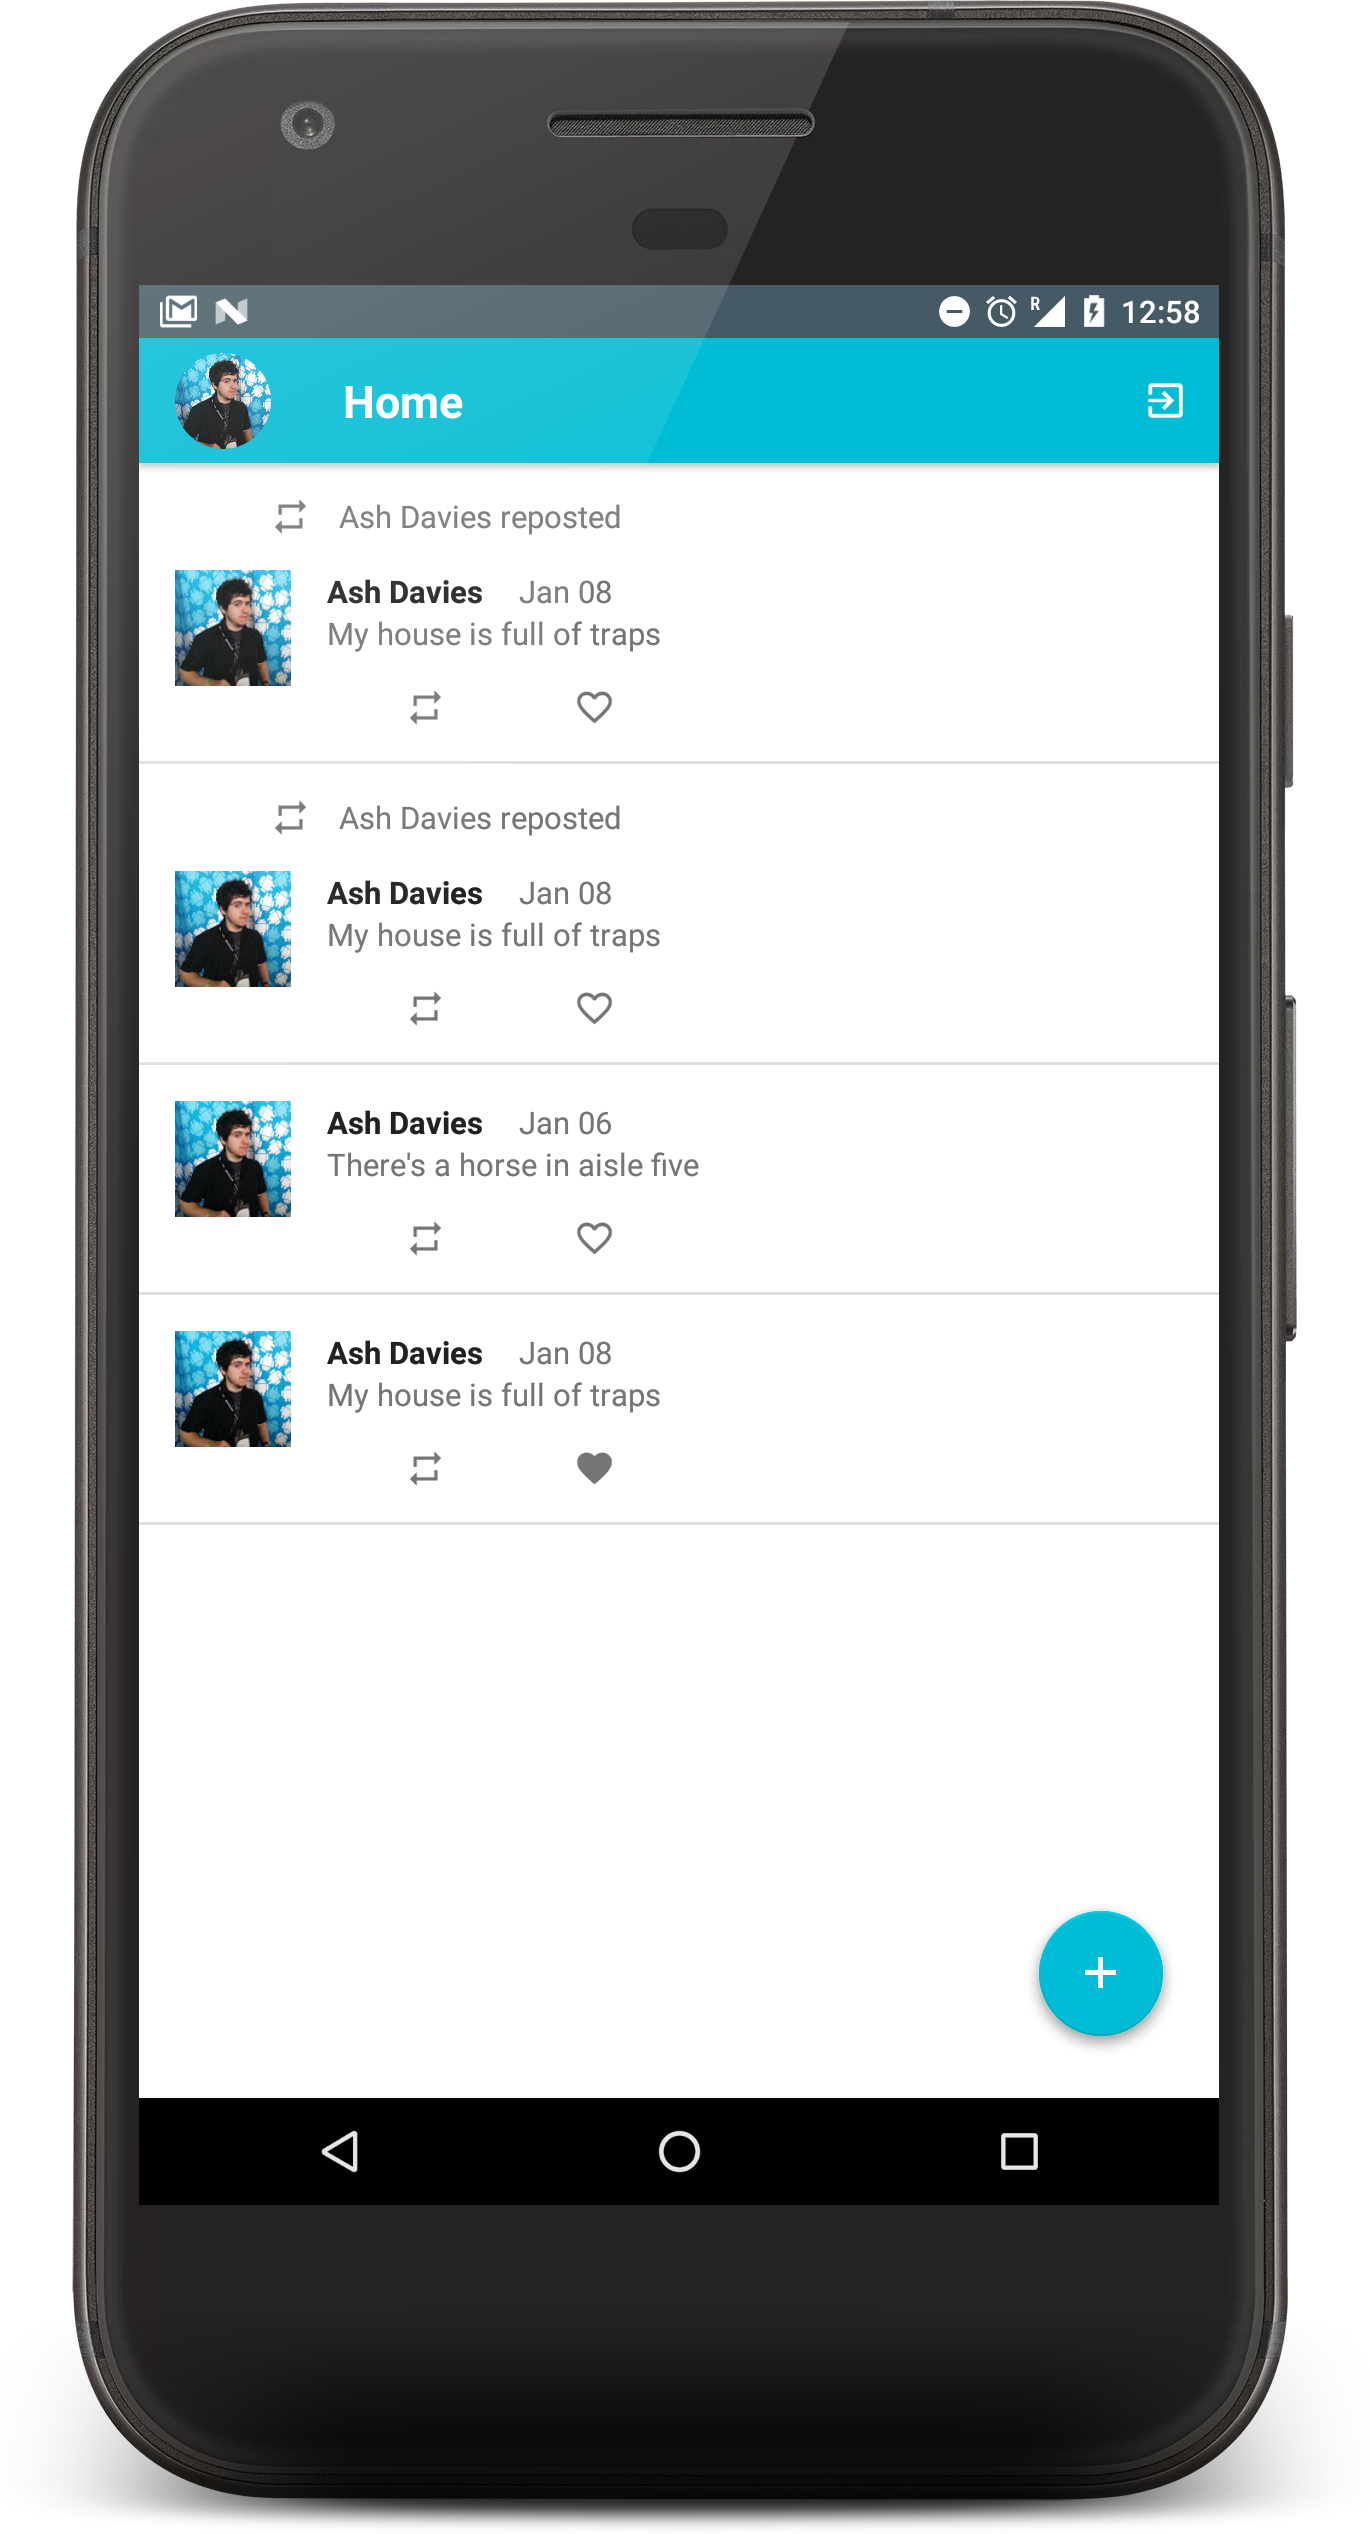
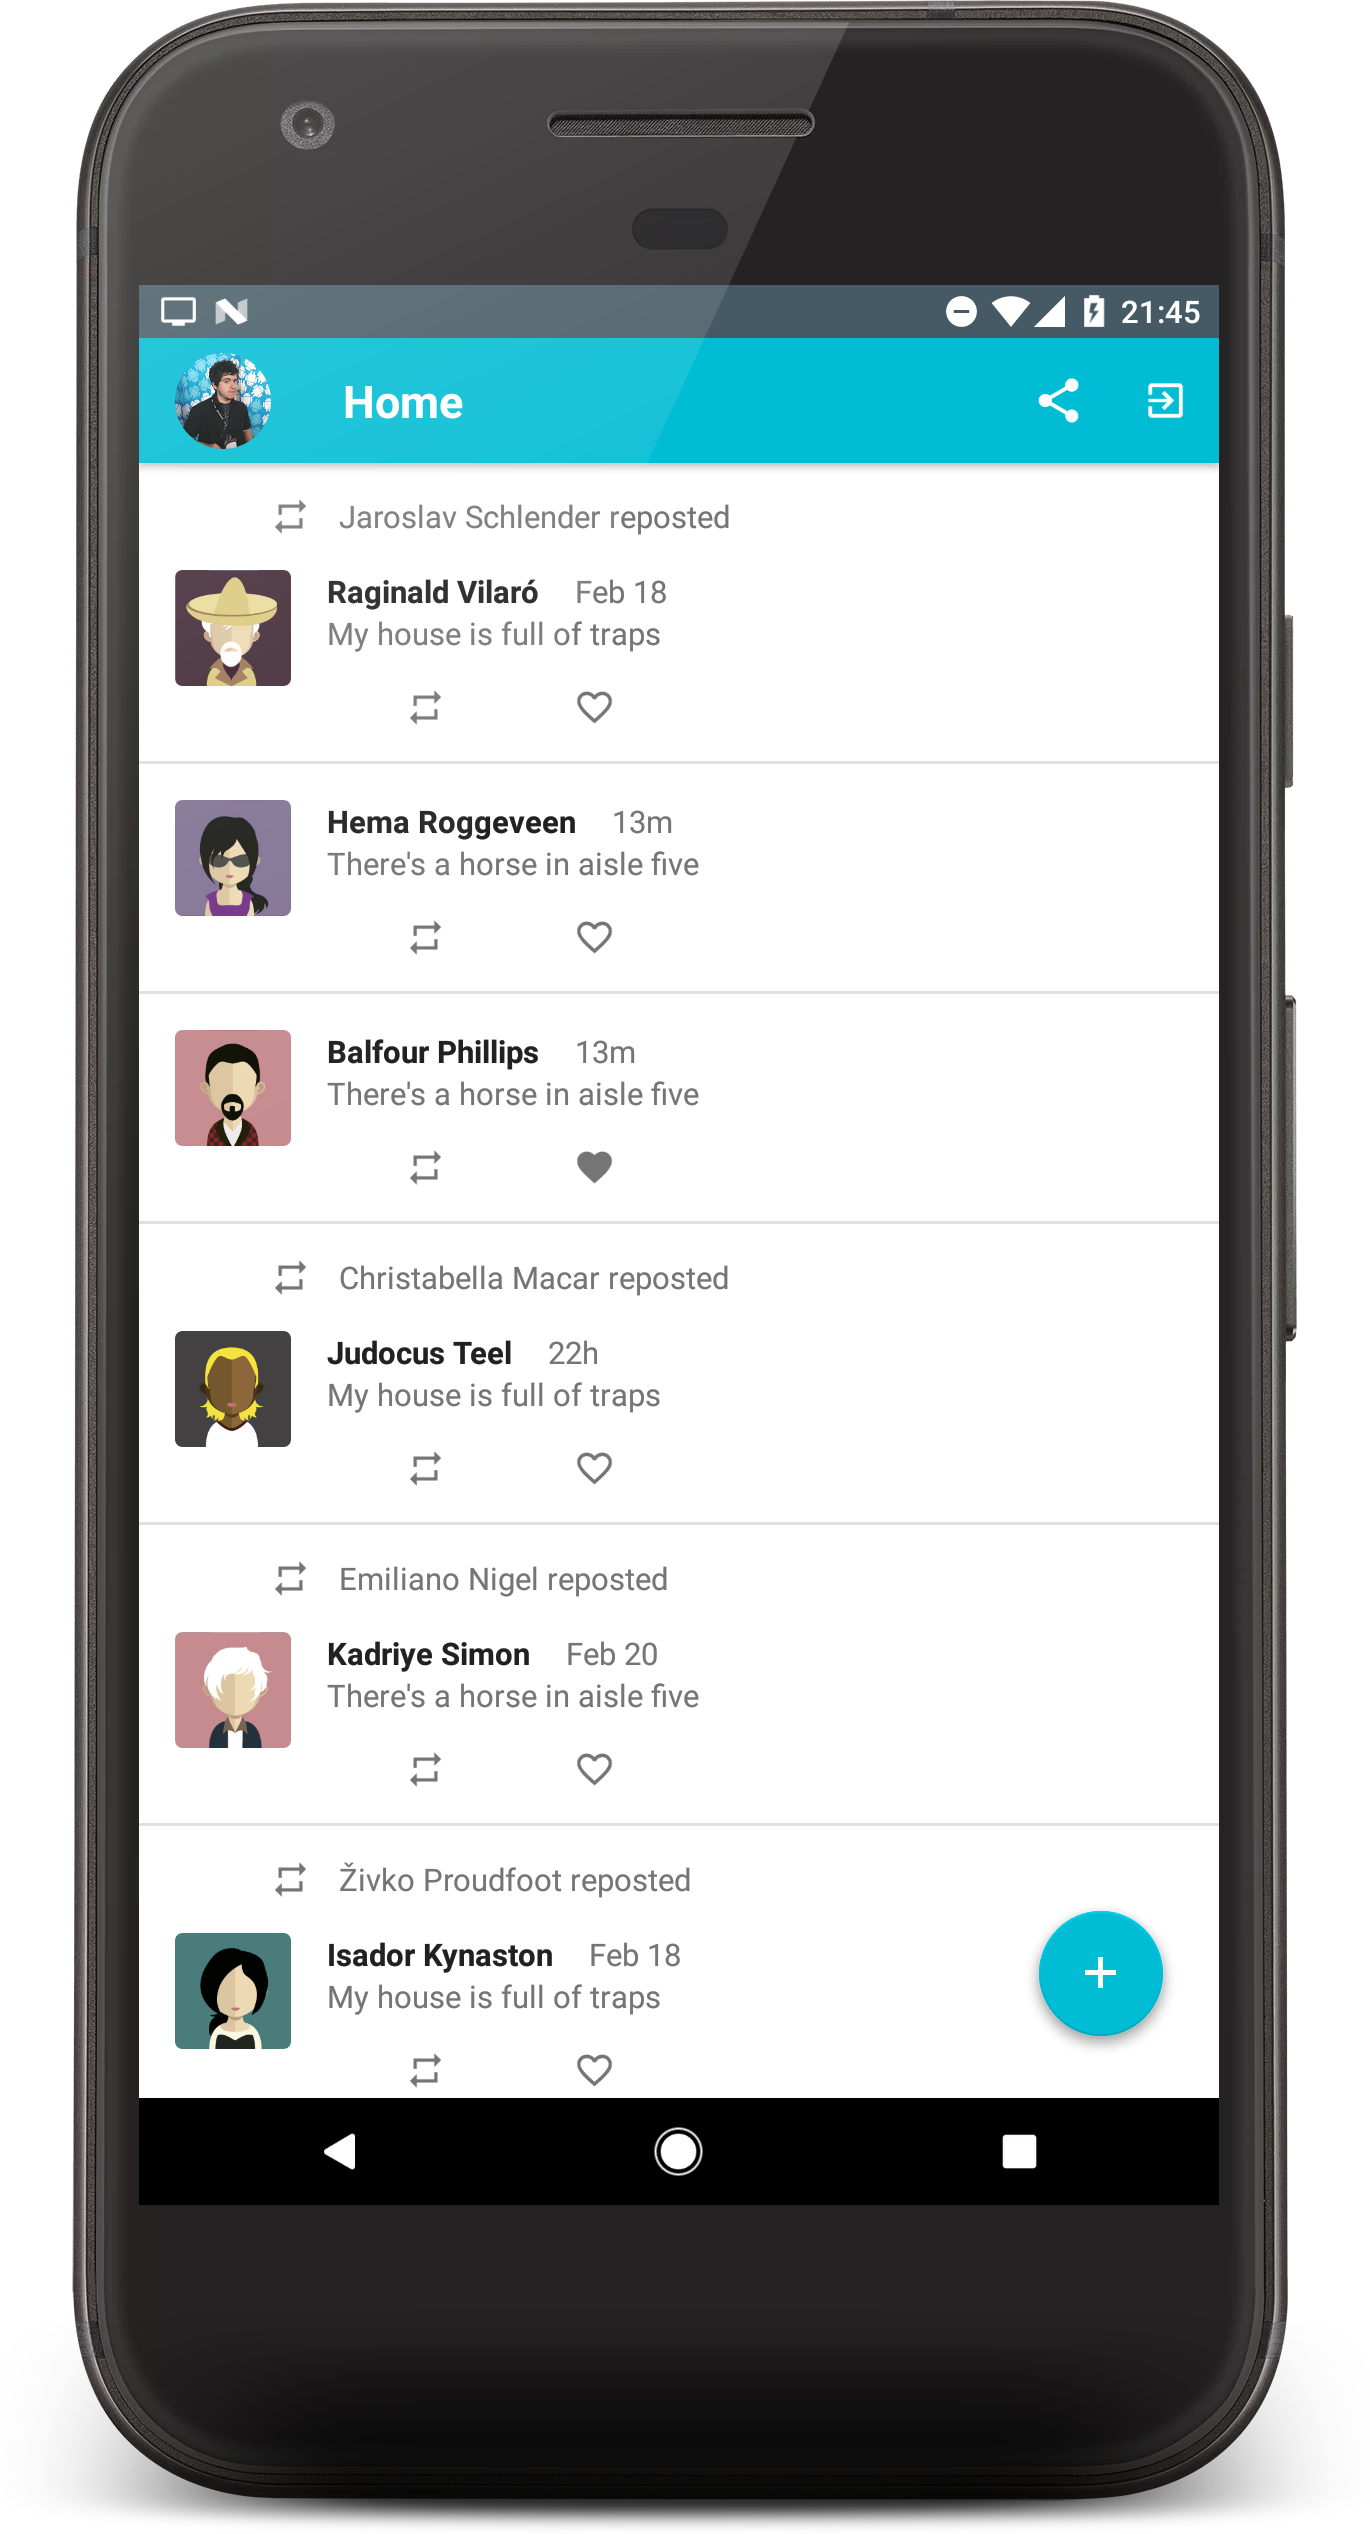
Prepare improvements and update for version 1.2.0

diff --git a/mobile/src/main/java/io/ashdavies/eternity/chat/CircleTransform.java b/mobile/src/main/java/io/ashdavies/eternity/chat/CircleTransform.java
@@ -4,41 +4,43 @@ import android.graphics.Bitmap;
 import android.graphics.BitmapShader;
 import android.graphics.Canvas;
 import android.graphics.Paint;
+import android.graphics.RectF;
+import android.graphics.Shader;
 import com.squareup.picasso.Transformation;
 
 class CircleTransform implements Transformation {
 
-  private static final String KEY = "circle";
+  private final int radius;
+  private final int margin;
+
+  CircleTransform(int radius) {
+    this(radius, 0);
+  }
+
+  private CircleTransform(int radius, int margin) {
+    this.radius = radius;
+    this.margin = margin;
+  }
 
   @Override
   public Bitmap transform(Bitmap source) {
-    int size = Math.min(source.getWidth(), source.getHeight());
+    final Paint paint = new Paint();
+    paint.setAntiAlias(true);
+    paint.setShader(new BitmapShader(source, Shader.TileMode.CLAMP, Shader.TileMode.CLAMP));
 
-    int x = (source.getWidth() - size) / 2;
-    int y = (source.getHeight() - size) / 2;
+    Bitmap output = Bitmap.createBitmap(source.getWidth(), source.getHeight(), Bitmap.Config.ARGB_8888);
+    Canvas canvas = new Canvas(output);
+    canvas.drawRoundRect(new RectF(margin, margin, source.getWidth() - margin, source.getHeight() - margin), radius, radius, paint);
 
-    Bitmap squaredBitmap = Bitmap.createBitmap(source, x, y, size, size);
-    if (squaredBitmap != source) {
+    if (source != output) {
       source.recycle();
     }
 
-    Bitmap bitmap = Bitmap.createBitmap(size, size, source.getConfig());
-
-    Canvas canvas = new Canvas(bitmap);
-    Paint paint = new Paint();
-    BitmapShader shader = new BitmapShader(squaredBitmap, BitmapShader.TileMode.CLAMP, BitmapShader.TileMode.CLAMP);
-    paint.setShader(shader);
-    paint.setAntiAlias(true);
-
-    float r = size / 2f;
-    canvas.drawCircle(r, r, r, paint);
-
-    squaredBitmap.recycle();
-    return bitmap;
+    return output;
   }
 
   @Override
   public String key() {
-    return KEY;
+    return "rounded(radius=" + radius + ", margin=" + margin + ")";
   }
 }

diff --git a/mobile/src/main/java/io/ashdavies/eternity/chat/MessageViewHolder.java b/mobile/src/main/java/io/ashdavies/eternity/chat/MessageViewHolder.java
@@ -47,17 +47,17 @@ class MessageViewHolder extends AbstractAdapter.ViewHolder<Pair<Message, Message
   @Override
   protected void bind(Pair<Message, MessageState> pair) {
     Message message = pair.first;
-    Message original = message.original();
 
-    if (original != null) {
-      reposted.setText(resolver.get(R.string.label_reposted, original.author().name()));
+    if (message.original() != null) {
+      reposted.setText(resolver.get(R.string.label_reposted, message.author().name()));
       reposted.setVisibility(View.VISIBLE);
 
-      message = original;
+      message = message.original();
     }
 
     Picasso.with(getContext())
         .load(message.author().avatar())
+        .transform(new CircleTransform(12))
         .into(avatar);
 
     favourite.setChecked(pair.second.favourite());

diff --git a/mobile/src/main/java/io/ashdavies/eternity/chat/ChatActivity.java b/mobile/src/main/java/io/ashdavies/eternity/chat/ChatActivity.java
@@ -143,7 +143,7 @@ public class ChatActivity extends AbstractListActivity<TypeComponent<ChatActivit
   public void setAvatar(Uri uri) {
     Picasso.with(this)
         .load(uri)
-        .transform(new CircleTransform())
+        .transform(new CircleTransform(56))
         .into(avatar);
   }
 

diff --git a/README.md b/README.md
@@ -1,10 +1,32 @@
 ### Eternity
-![Build Status](https://img.shields.io/travis/ashdavies/eternity.svg)
-![Coverage](https://img.shields.io/codecov/c/github/ashdavies/eternity.svg)
-![Version](https://img.shields.io/badge/version-1.0.0-yellowgreen.svg)
-![License](https://img.shields.io/badge/license-apache%202.0-blue.svg)
+[![Build Status](https://img.shields.io/travis/ashdavies/eternity.svg)](https://travis-ci.org/ashdavies/eternity)
+[![Coverage](https://img.shields.io/codecov/c/github/ashdavies/eternity.svg)](https://codecov.io/github/ashdavies/eternity)
+[![License](https://img.shields.io/badge/license-apache%202.0-blue.svg)](https://github.com/ashdavies/eternity/blob/master/LICENSE.txt)
+[![Versions](https://img.shields.io/badge/version-1.2.0-yellowgreen.svg)](https://github.com/ashdavies/eternity/blob/master/CHANGELOG.md)
+[![Bintray](https://img.shields.io/bintray/v/ashdavies/maven/eternity.svg)](https://bintray.com/ashdavies/maven/eternity)
 
-> Let’s imagine a language which has only two valid sentences, and every tweet must be one of the two sentences.
+> Let’s imagine a language which has only two valid sentences, and every tweet must be one of the two sentences.  
 **-- Randal Munroe**
+
+Find out whats going on around your world this second, from houses full of traps, to horses in aisle five.
+It can be happening everywhere, get full coverage of these breaking events in real time.
+
+Take part in the awesomeness, make contributions and tell the whole world what is really important to you!
+
+### Features:
+ * Real time 'chat' with not only one useful sentence, but two spectacular phrases!
+ * Don't like forms? No problem! Authenticate using your Google account!
+ * Like a post? Awesome, mark it as your favourite so you can check it later!
+ * Think your friends might like a post? Repost it! Your friends will see how awesome you are!
+
+[![Google Play](https://raw.githubusercontent.com/ashdavies/eternity/master/art/google-play-badge.png)](https://play.google.com/store/apps/details?id=io.ashdavies.eternity)  
+*Google Play and the Google Play logo are trademarks of Google Inc.*
+
+------------------------------------------------------------------------------
+
+Please Note! This application is a parody and should not be treated seriously.
+
+Source code is freely available on GitHub 
+![GitHub](https://github.com/ashdavies/eternity)
 
 Based upon the What If web comic [#34](https://what-if.xkcd.com/34/) by Randal Munroe.

diff --git a/CHANGELOG.md b/CHANGELOG.md
@@ -1,6 +1,14 @@
 Change Log
 ==========
 
+Version 1.1.0 *(2017-02-27)*
+----------------------------
+
+ * Message repost user fix
+ * Additional Firebase features
+ * Corrected timestamp display
+ * Project structure changes
+ 
 Version 1.0.0 *(2017-02-13)*
 ----------------------------
 
